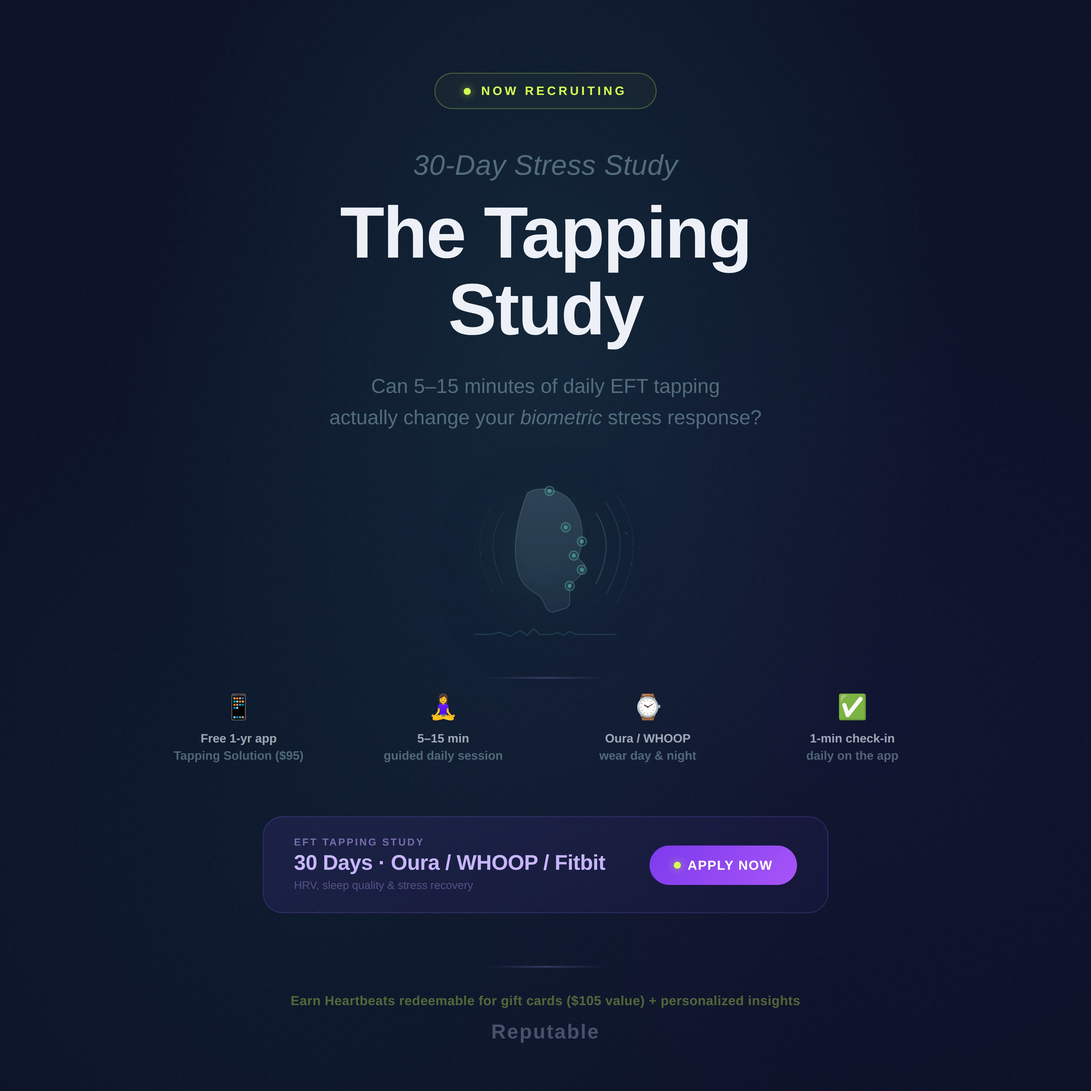
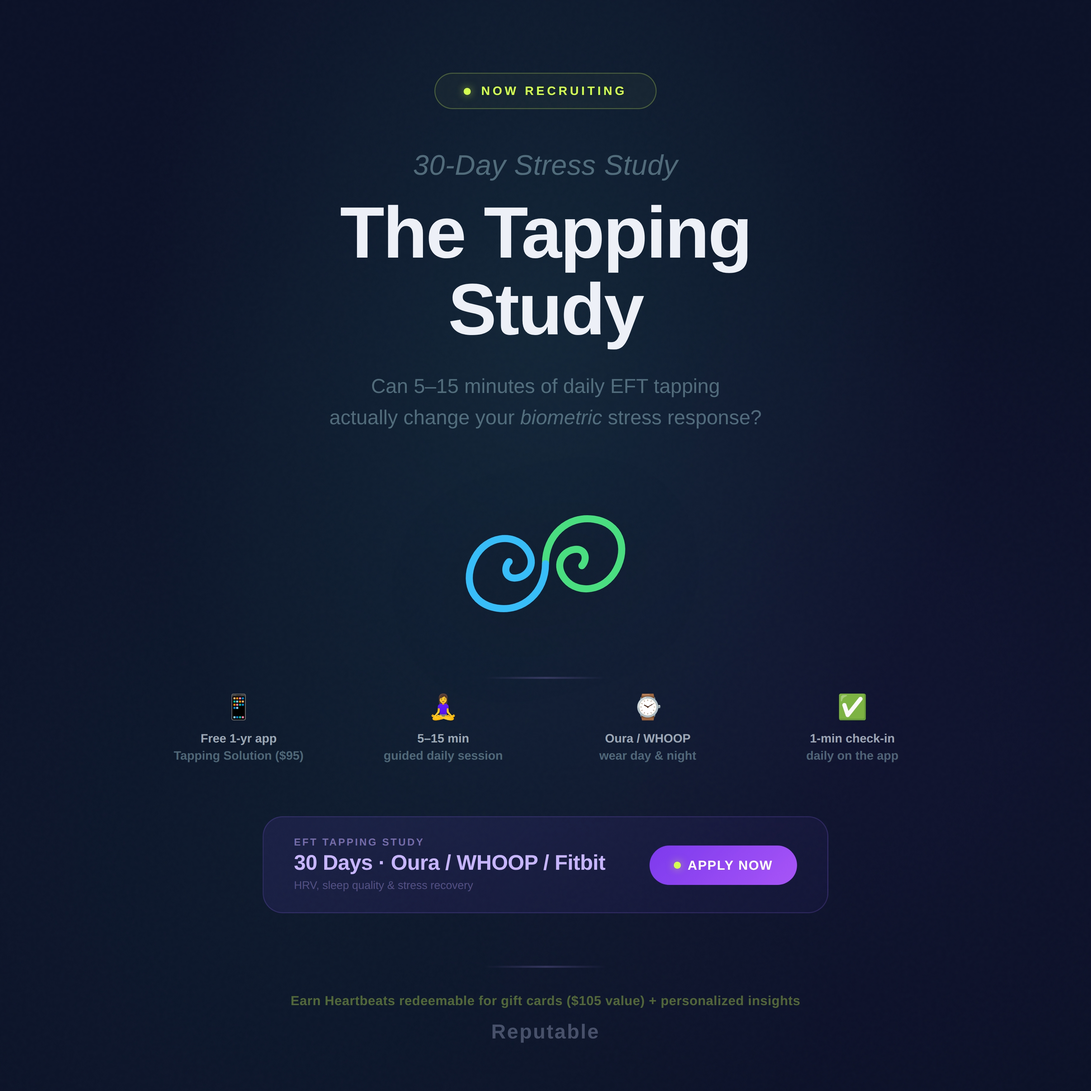
Replace illustration with interlocking dual-spiral symbol
Swap the head profile SVG for a clean blue + green dual-spiral
symbol matching the reference design. Simple, recognizable,
and on-brand for the tapping study.

https://claude.ai/code/session_01TfrrBTyPYsf3Z7Zsrx7aQ5

Changed region(s): [[0.4052, 0.4364, 0.5923, 0.5611]]

diff --git a/tapping-study-post.html b/tapping-study-post.html
@@ -276,89 +276,26 @@
   <!-- Question -->
   <div class="question">Can 5–15 minutes of daily EFT tapping<br>actually change your <em>biometric</em> stress response?</div>
 
-  <!-- Tapping illustration — side profile with meridian points + ripples -->
+  <!-- Tapping illustration — interlocking dual spirals (blue + green) -->
   <div class="illus-wrap">
-    <svg width="320" height="200" viewBox="0 0 320 200" fill="none" xmlns="http://www.w3.org/2000/svg">
-      <defs>
-        <radialGradient id="rippleGlow" cx="50%" cy="48%" r="50%">
-          <stop offset="0%" stop-color="rgba(100,200,180,0.06)"/>
-          <stop offset="60%" stop-color="rgba(80,170,160,0.02)"/>
-          <stop offset="100%" stop-color="transparent"/>
-        </radialGradient>
-        <linearGradient id="profileGrad" x1="160" y1="20" x2="160" y2="180" gradientUnits="userSpaceOnUse">
-          <stop offset="0%" stop-color="rgba(160,200,210,0.2)"/>
-          <stop offset="100%" stop-color="rgba(120,160,180,0.06)"/>
-        </linearGradient>
-      </defs>
+    <svg width="200" height="200" viewBox="0 0 200 200" fill="none" xmlns="http://www.w3.org/2000/svg">
+      <!-- Green spiral (top-right) — curls clockwise inward from bottom-left -->
+      <path d="M100 100
+               C100 72, 122 52, 148 56
+               C174 60, 182 84, 170 106
+               C158 128, 132 130, 120 116
+               C108 102, 116 88, 128 86
+               C140 84, 142 96, 136 102"
+            stroke="#4ade80" stroke-width="7" fill="none" stroke-linecap="round"/>
 
-      <!-- Ambient glow -->
-      <circle cx="160" cy="100" r="95" fill="url(#rippleGlow)"/>
-
-      <!-- Head profile — simplified, elegant side silhouette facing right -->
-      <path d="M142 30
-               Q148 26 156 26
-               Q178 26 188 42
-               Q198 58 196 78
-               Q195 88 192 94
-               L198 100
-               Q200 104 198 108
-               L190 116
-               Q186 118 184 122
-               L184 138
-               Q184 142 180 144
-               L168 148
-               Q164 148 162 146
-               L158 138
-               Q156 134 154 132
-               L148 128
-               Q138 122 134 112
-               Q130 100 130 86
-               Q130 60 142 30 Z"
-            fill="url(#profileGrad)" stroke="rgba(160,200,210,0.18)" stroke-width="1"/>
-
-      <!-- EFT Meridian tapping points — glowing dots on the profile -->
-      <!-- Top of head (crown) -->
-      <circle cx="164" cy="28" r="4.5" fill="rgba(100,210,190,0.08)" stroke="rgba(100,210,190,0.35)" stroke-width="1.2"/>
-      <circle cx="164" cy="28" r="2" fill="rgba(100,210,190,0.5)"/>
-
-      <!-- Eyebrow point -->
-      <circle cx="180" cy="64" r="4.5" fill="rgba(100,210,190,0.08)" stroke="rgba(100,210,190,0.35)" stroke-width="1.2"/>
-      <circle cx="180" cy="64" r="2" fill="rgba(100,210,190,0.5)"/>
-
-      <!-- Side of eye -->
-      <circle cx="196" cy="78" r="4.5" fill="rgba(100,210,190,0.08)" stroke="rgba(100,210,190,0.35)" stroke-width="1.2"/>
-      <circle cx="196" cy="78" r="2" fill="rgba(100,210,190,0.5)"/>
-
-      <!-- Under eye -->
-      <circle cx="188" cy="92" r="4.5" fill="rgba(100,210,190,0.08)" stroke="rgba(100,210,190,0.35)" stroke-width="1.2"/>
-      <circle cx="188" cy="92" r="2" fill="rgba(100,210,190,0.5)"/>
-
-      <!-- Under nose -->
-      <circle cx="196" cy="106" r="4.5" fill="rgba(100,210,190,0.08)" stroke="rgba(100,210,190,0.35)" stroke-width="1.2"/>
-      <circle cx="196" cy="106" r="2" fill="rgba(100,210,190,0.5)"/>
-
-      <!-- Chin point -->
-      <circle cx="184" cy="122" r="4.5" fill="rgba(100,210,190,0.08)" stroke="rgba(100,210,190,0.35)" stroke-width="1.2"/>
-      <circle cx="184" cy="122" r="2" fill="rgba(100,210,190,0.5)"/>
-
-      <!-- Ripple arcs emanating outward from the profile (calming effect) -->
-      <path d="M210 50 Q230 80 210 120" stroke="rgba(100,210,190,0.18)" stroke-width="1.3" fill="none" stroke-linecap="round"/>
-      <path d="M220 40 Q248 80 220 130" stroke="rgba(100,210,190,0.12)" stroke-width="1.1" fill="none" stroke-linecap="round"/>
-      <path d="M230 32 Q264 80 230 140" stroke="rgba(100,210,190,0.07)" stroke-width="0.9" fill="none" stroke-linecap="round"/>
-
-      <!-- Subtle arcs on left side too -->
-      <path d="M118 50 Q98 80 118 120" stroke="rgba(100,210,190,0.1)" stroke-width="1" fill="none" stroke-linecap="round"/>
-      <path d="M108 42 Q82 80 108 128" stroke="rgba(100,210,190,0.06)" stroke-width="0.8" fill="none" stroke-linecap="round"/>
-
-      <!-- Small particle dots -->
-      <circle cx="240" cy="70" r="1.2" fill="rgba(100,210,190,0.15)"/>
-      <circle cx="245" cy="100" r="1" fill="rgba(100,210,190,0.12)"/>
-      <circle cx="96" cy="90" r="0.9" fill="rgba(100,210,190,0.1)"/>
-      <circle cx="252" cy="84" r="0.8" fill="rgba(100,210,190,0.08)"/>
-
-      <!-- Calming HRV line at bottom -->
-      <polyline points="90,170 105,170 115,168 125,172 135,166 142,171 148,164 154,170 160,170 166,170 172,168 178,171 184,167 190,170 196,170 210,170 230,170"
-                stroke="rgba(100,210,190,0.16)" stroke-width="1.2" fill="none" stroke-linejoin="round" stroke-linecap="round"/>
+      <!-- Blue spiral (bottom-left) — curls clockwise inward from top-right (180° rotated) -->
+      <path d="M100 100
+               C100 128, 78 148, 52 144
+               C26 140, 18 116, 30 94
+               C42 72, 68 70, 80 84
+               C92 98, 84 112, 72 114
+               C60 116, 58 104, 64 98"
+            stroke="#38bdf8" stroke-width="7" fill="none" stroke-linecap="round"/>
     </svg>
   </div>
 
